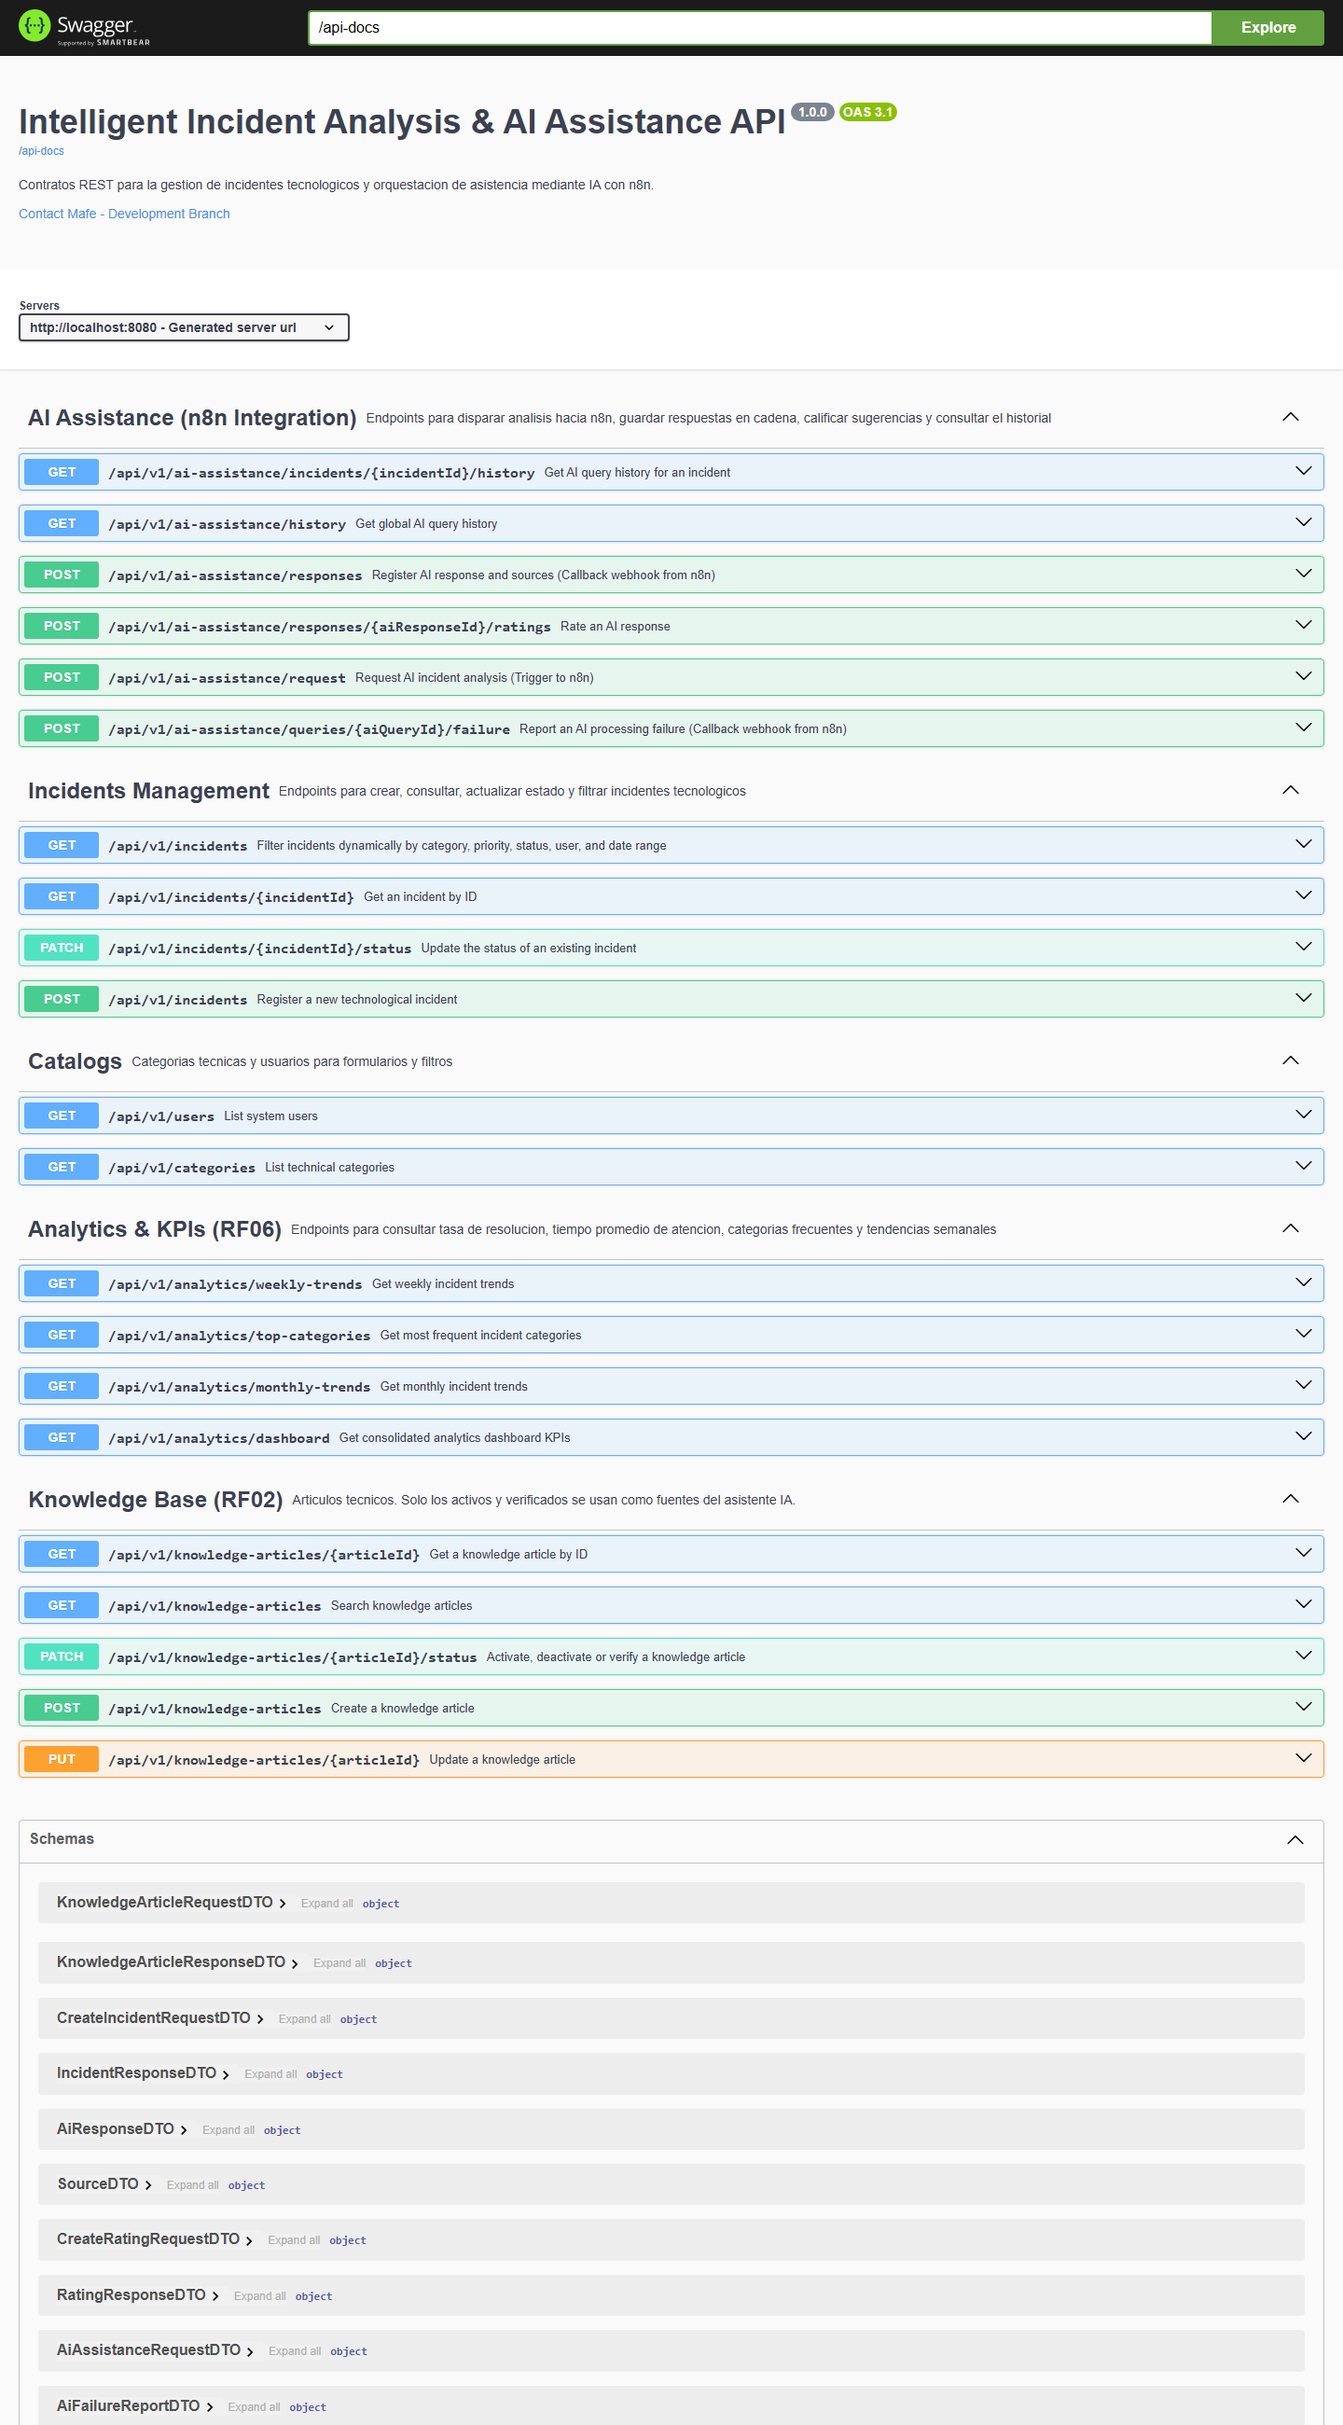
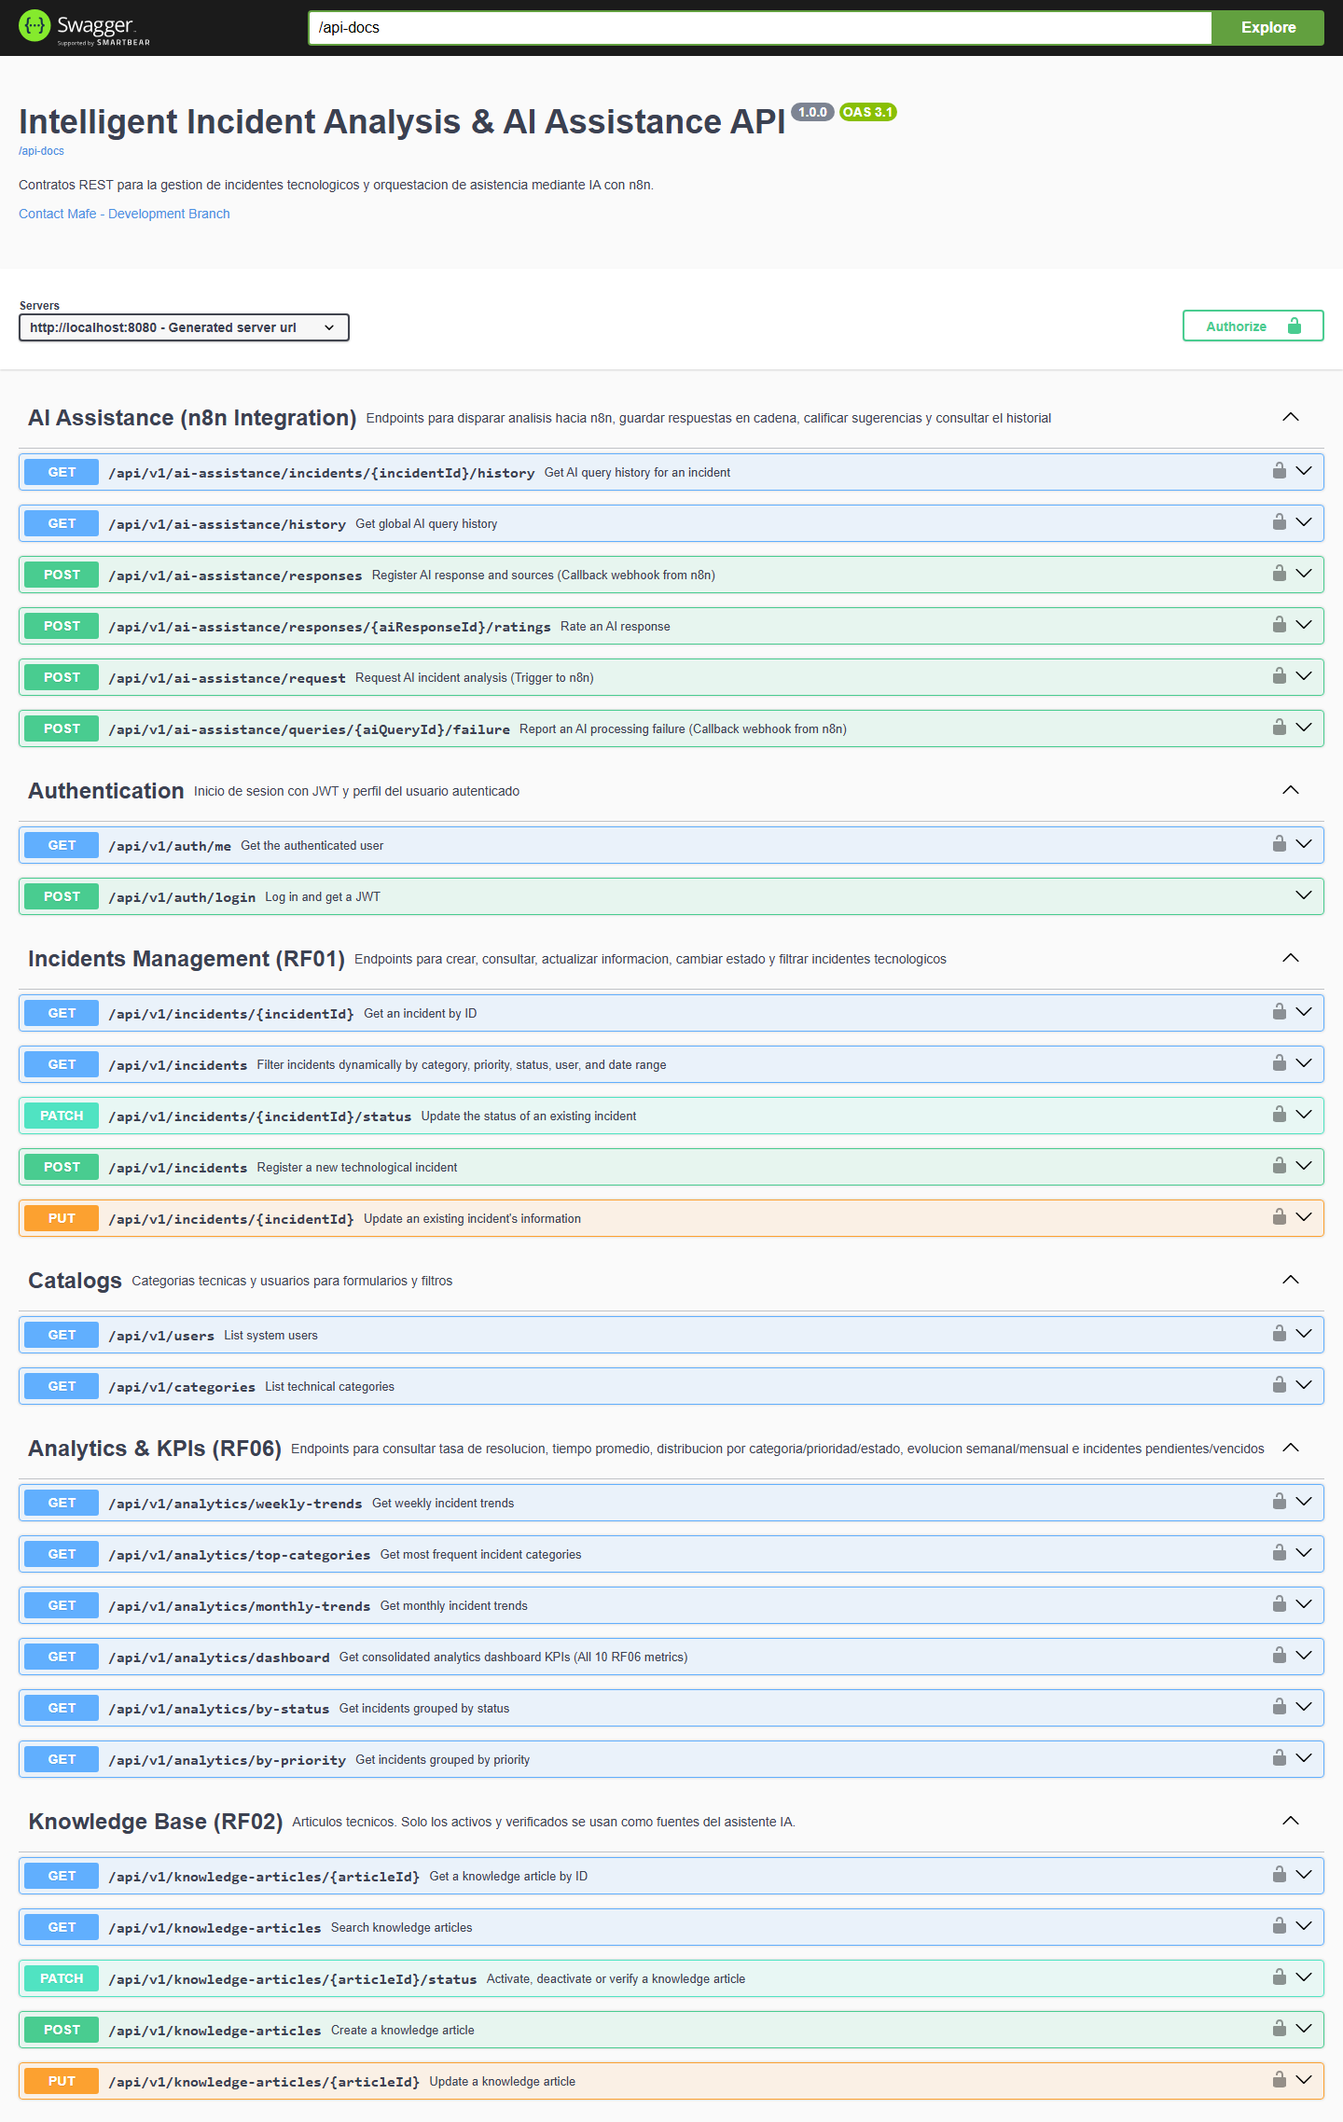
docs: add current screenshots for every role to the README
- retake every UI capture from the running app: login, each admin
  module, the technician and user interfaces, mobile and Swagger
- replace the outdated captures that predate login and roles
- README: dashboard preview at the top and a new "Capturas de pantalla"
  section grouped by role and device; later sections renumbered
- point the presentation and the evidence index to the new files

diff --git a/docs/presentacion/index.html b/docs/presentacion/index.html
@@ -125,14 +125,14 @@
   <section class="slide" aria-label="Dashboard">
     <span class="eyebrow">RF07 · Dashboard</span>
     <h2>Indicadores reales, filtros y comparación temporal</h2>
-    <img class="shot" src="../evidencias/frontend/01-dashboard.png" alt="Dashboard con indicadores, comparación con el periodo anterior y gráficos">
+    <img class="shot" src="../evidencias/frontend/02-admin-dashboard.png" alt="Dashboard con indicadores, comparación con el periodo anterior y gráficos">
   </section>
 
   <section class="slide" aria-label="Asistente">
     <span class="eyebrow">RF05 · Asistente IA</span>
     <h2>Respuestas estructuradas y respaldadas por fuentes</h2>
     <div class="grid g2">
-      <img class="shot" src="../evidencias/frontend/04-asistente.png" alt="Asistente IA con diagnóstico, solución, pasos y fuentes con similitud">
+      <img class="shot" src="../evidencias/frontend/08-admin-asistente.png" alt="Asistente IA con diagnóstico, solución, pasos y fuentes con similitud">
       <div class="card"><ul>
         <li><strong>Diagnóstico, solución sugerida y pasos</strong> en secciones separadas.</li>
         <li><strong>Fuentes desplegables</strong> con el valor real de similitud.</li>
@@ -146,7 +146,7 @@
   <section class="slide" aria-label="Base de conocimiento">
     <span class="eyebrow">RF02 · Base de conocimiento</span>
     <h2>Solo el contenido verificado llega a la IA</h2>
-    <img class="shot" src="../evidencias/frontend/03-conocimiento.png" alt="Base de conocimiento en tarjetas con estados activo, pendiente e inactivo">
+    <img class="shot" src="../evidencias/frontend/06-admin-conocimiento.png" alt="Base de conocimiento en tarjetas con estados activo, pendiente e inactivo">
   </section>
 
   <section class="slide" aria-label="Resultados del análisis">

diff --git a/README.md b/README.md
@@ -2,19 +2,22 @@
 
 Plataforma para registrar incidentes de soporte, administrar una base de conocimiento técnica, analizar indicadores con SQL y obtener orientación de un asistente de IA que responde **solo** con artículos verificados (RAG). Tiene tres roles (administrador, técnico y usuario), cada uno con su propia interfaz, y sesiones con JWT.
 
+![Dashboard del administrador: indicadores, filtros y gráficos calculados con SQL](docs/evidencias/frontend/02-admin-dashboard.png)
+
 **Contenido**
 
 1. [Arranque rápido](#1-arranque-rápido)
 2. [Cuentas, roles y permisos](#2-cuentas-roles-y-permisos)
-3. [Arquitectura](#3-arquitectura)
-4. [n8n: configuración automática](#4-n8n-configuración-automática)
-5. [Variables de entorno](#5-variables-de-entorno)
-6. [Pruebas](#6-pruebas)
-7. [Desarrollo sin Docker](#7-desarrollo-sin-docker)
-8. [Comandos del día a día](#8-comandos-del-día-a-día)
-9. [Despliegue en un servidor Ubuntu](#9-despliegue-en-un-servidor-ubuntu)
-10. [Solución de problemas](#10-solución-de-problemas)
-11. [Equipo, ramas y documentación](#11-equipo-ramas-y-documentación)
+3. [Capturas de pantalla](#3-capturas-de-pantalla)
+4. [Arquitectura](#4-arquitectura)
+5. [n8n: configuración automática](#5-n8n-configuración-automática)
+6. [Variables de entorno](#6-variables-de-entorno)
+7. [Pruebas](#7-pruebas)
+8. [Desarrollo sin Docker](#8-desarrollo-sin-docker)
+9. [Comandos del día a día](#9-comandos-del-día-a-día)
+10. [Despliegue en un servidor Ubuntu](#10-despliegue-en-un-servidor-ubuntu)
+11. [Solución de problemas](#11-solución-de-problemas)
+12. [Equipo, ramas y documentación](#12-equipo-ramas-y-documentación)
 
 ---
 
@@ -22,7 +25,7 @@ Plataforma para registrar incidentes de soporte, administrar una base de conocim
 
 Todo corre en Docker: no hace falta instalar Java, Maven, Node, PostgreSQL ni n8n.
 
-**Requisitos:** Git y Docker con Compose v2. En Windows y macOS es **Docker Desktop** (debe estar abierto). En Ubuntu, sigue el [paso 9.1](#91-instalar-docker).
+**Requisitos:** Git y Docker con Compose v2. En Windows y macOS es **Docker Desktop** (debe estar abierto). En Ubuntu, sigue el [paso 10.1](#101-instalar-docker).
 
 ### 1.1 Descargar el proyecto
 
@@ -76,7 +79,7 @@ docker compose ps
 
 La primera vez tarda unos minutos, porque descarga las imágenes y compila el backend. Al terminar, `backend`, `postgres`, `qdrant`, `n8n` y `frontend` deben aparecer como **healthy**. `certs` aparece como *Exited (0)* porque solo crea el certificado y termina.
 
-n8n **se configura solo** al arrancar: crea sus credenciales, importa el flujo y lo activa ([detalle](#4-n8n-configuración-automática)). Para comprobarlo:
+n8n **se configura solo** al arrancar: crea sus credenciales, importa el flujo y lo activa ([detalle](#5-n8n-configuración-automática)). Para comprobarlo:
 
 ```bash
 docker compose logs n8n | grep -E "n8n-setup|Started"
@@ -159,7 +162,75 @@ Seguridad:
 
 ---
 
-## 3. Arquitectura
+## 3. Capturas de pantalla
+
+Tomadas de la aplicación en funcionamiento, con los datos iniciales y respuestas reales del asistente. Están en [docs/evidencias/frontend/](docs/evidencias/frontend/).
+
+### Inicio de sesión
+
+Cada cuenta de demostración rellena el correo con un clic. Después del login, cada rol llega a su propia sección de inicio.
+
+![Inicio de sesión con las tres cuentas de demostración, una por rol](docs/evidencias/frontend/01-login.png)
+
+### Administrador
+
+**Dashboard** (la imagen del inicio de este README). Indicadores, evolución semanal y mensual, tiempos de resolución y distribución por categoría y estado, con filtros por fecha, categoría y prioridad.
+
+| **Incidentes:** todos los incidentes, con filtros, búsqueda y orden | **Detalle:** datos del incidente, cambio de estado y accesos a la IA |
+|:-:|:-:|
+| ![Lista de incidentes](docs/evidencias/frontend/03-admin-incidentes.png) | ![Detalle de un incidente](docs/evidencias/frontend/04-admin-incidente-detalle.png) |
+
+| **Nuevo incidente:** puede registrarlo a nombre de cualquier usuario | **Base de conocimiento:** artículos activos, pendientes e inactivos |
+|:-:|:-:|
+| ![Formulario de nuevo incidente](docs/evidencias/frontend/05-admin-nuevo-incidente.png) | ![Base de conocimiento](docs/evidencias/frontend/06-admin-conocimiento.png) |
+
+| **Artículo:** solo el administrador lo verifica (o le quita la verificación) y lo desactiva | **Historial:** todas las consultas a la IA, su estado y su calificación |
+|:-:|:-:|
+| ![Detalle de un artículo con verificar y desactivar](docs/evidencias/frontend/07-admin-articulo.png) | ![Historial de consultas](docs/evidencias/frontend/09-admin-historial.png) |
+
+| **Analítica:** indicadores y gráficos calculados con SQL | **Configuración:** conexión con la API (solo administrador) |
+|:-:|:-:|
+| ![Analítica](docs/evidencias/frontend/10-admin-analitica.png) | ![Configuración](docs/evidencias/frontend/11-admin-configuracion.png) |
+
+**Asistente IA (RAG).** La respuesta trae diagnóstico, solución, pasos, confianza y los artículos usados como fuente, con su similitud.
+
+![Asistente IA con una respuesta real](docs/evidencias/frontend/08-admin-asistente.png)
+
+### Técnico de soporte
+
+Ve el dashboard, los incidentes, la base de conocimiento, el asistente y el historial. No ve *Configuración* y no puede verificar artículos: solo crearlos y editarlos.
+
+| **Dashboard del técnico:** sin la sección Configuración en el menú | **Artículo:** puede editarlo, pero la verificación queda para el administrador |
+|:-:|:-:|
+| ![Dashboard del técnico](docs/evidencias/frontend/12-tecnico-dashboard.png) | ![Artículo visto por el técnico, sin botón de verificar](docs/evidencias/frontend/13-tecnico-articulo.png) |
+
+### Usuario
+
+Solo ve *Mis incidentes*, *Conocimiento* (lectura de artículos publicados), *Asistente IA* sobre sus incidentes y *Mis consultas*.
+
+| **Mis incidentes:** solo los que reportó | **Reportar incidente:** siempre queda a su nombre |
+|:-:|:-:|
+| ![Mis incidentes](docs/evidencias/frontend/14-usuario-mis-incidentes.png) | ![Formulario para reportar un incidente](docs/evidencias/frontend/15-usuario-reportar.png) |
+
+| **Mis consultas:** las consultas a la IA sobre sus incidentes | **Conocimiento:** solo artículos activos y verificados, sin edición |
+|:-:|:-:|
+| ![Mis consultas](docs/evidencias/frontend/16-usuario-mis-consultas.png) | ![Base de conocimiento en modo lectura](docs/evidencias/frontend/17-usuario-conocimiento.png) |
+
+### Móvil
+
+| Dashboard | Menú lateral | Inicio de sesión |
+|:-:|:-:|:-:|
+| <img src="docs/evidencias/frontend/18-movil-dashboard.png" alt="Dashboard en móvil" width="240"> | <img src="docs/evidencias/frontend/19-movil-menu.png" alt="Menú lateral en móvil" width="240"> | <img src="docs/evidencias/frontend/20-movil-login.png" alt="Inicio de sesión en móvil" width="240"> |
+
+### API (Swagger)
+
+Los 26 endpoints documentados por módulo. Con **Authorize** se pega el JWT de `POST /api/v1/auth/login`.
+
+![Swagger UI con los endpoints de la API](docs/evidencias/swagger-ui.png)
+
+---
+
+## 4. Arquitectura
 
 ```
 ┌────────────┐  REST   ┌──────────────────┐  JDBC  ┌──────────────┐
@@ -252,7 +323,7 @@ Por seguridad, los puertos se publican **solo en `127.0.0.1`**. Si alguno está 
 
 ---
 
-## 4. n8n: configuración automática
+## 5. n8n: configuración automática
 
 Cada vez que arranca el contenedor `n8n`, antes de `n8n start`, se ejecuta [n8n/setup.sh](n8n/setup.sh). El script:
 
@@ -284,7 +355,7 @@ Los dos exigen el encabezado `X-N8N-Token`. Sin él, o con un valor incorrecto, 
 
 ---
 
-## 5. Variables de entorno
+## 6. Variables de entorno
 
 Se definen en el `.env`. Las marcadas con **\*** son obligatorias para levantar con Docker; el resto tiene un valor por defecto.
 
@@ -305,13 +376,13 @@ Se definen en el `.env`. Las marcadas con **\*** son obligatorias para levantar 
 | `TZ` | postgres, n8n | Zona horaria. Por defecto `America/Bogota` |
 | `*_PORT` | Docker | Puertos del equipo, si los predeterminados están ocupados |
 
-Fuera de Docker (sección 7), el backend también lee `DB_URL`, `DB_DRIVER`, `DB_USERNAME`, `DB_PASSWORD`, `N8N_WEBHOOK_URL` y `N8N_INDEX_WEBHOOK_URL`.
+Fuera de Docker (sección 8), el backend también lee `DB_URL`, `DB_DRIVER`, `DB_USERNAME`, `DB_PASSWORD`, `N8N_WEBHOOK_URL` y `N8N_INDEX_WEBHOOK_URL`.
 
 Las claves nunca se escriben en el código ni en el repositorio: van en el `.env`.
 
 ---
 
-## 6. Pruebas
+## 7. Pruebas
 
 ### Automáticas (sin instalar Java ni Node)
 
@@ -375,7 +446,7 @@ Con los datos iniciales, `totalIncidents` es 150.
 
 ---
 
-## 7. Desarrollo sin Docker
+## 8. Desarrollo sin Docker
 
 Para trabajar en el backend o el frontend con recarga rápida. Requiere Java 21, Maven 3.9 y Python 3 (u otro servidor estático).
 
@@ -394,7 +465,7 @@ python -m http.server 5500
 
 ---
 
-## 8. Comandos del día a día
+## 9. Comandos del día a día
 
 | Acción | Comando |
 |---|---|
@@ -411,11 +482,11 @@ python -m http.server 5500
 
 ---
 
-## 9. Despliegue en un servidor Ubuntu
+## 10. Despliegue en un servidor Ubuntu
 
 Probado en Ubuntu 22.04 y 24.04.
 
-### 9.1 Instalar Docker
+### 10.1 Instalar Docker
 
 ```bash
 sudo apt update
@@ -436,7 +507,7 @@ sudo systemctl enable docker           # que Docker arranque con el sistema
 
 Para comprobarlo, `docker --version` y `docker compose version` deben responder sin error. Después, sigue el [arranque rápido](#1-arranque-rápido) (pasos 1.1 a 1.4).
 
-### 9.2 HTTPS
+### 10.2 HTTPS
 
 La página también se sirve en **https://localhost:5443**. Por HTTPS, nginx reenvía `/api`, `/api-docs` y `/swagger-ui` al backend: la página y la API comparten origen, así que no hay contenido mixto ni hace falta CORS.
 
@@ -454,7 +525,7 @@ La página también se sirve en **https://localhost:5443**. Por HTTPS, nginx ree
   Para publicarlo en internet, en `docker-compose.yml` cambia el puerto HTTPS del frontend de `127.0.0.1:${FRONTEND_HTTPS_PORT:-5443}:443` a `443:443`, y abre el puerto con `sudo ufw allow 443`. El resto de servicios debe seguir en `127.0.0.1`.
 - **Encabezados de seguridad:** HSTS (solo por HTTPS), `X-Content-Type-Options: nosniff`, `X-Frame-Options: DENY`, `Referrer-Policy` y `Permissions-Policy`. nginx no expone su versión.
 
-### 9.3 Usarlo desde otro computador
+### 10.3 Usarlo desde otro computador
 
 Los servicios solo escuchan en `127.0.0.1` del servidor. Para usarlos desde otro equipo, abre un **túnel SSH**. El servidor necesita `openssh-server`:
 
@@ -467,7 +538,7 @@ Mientras la sesión esté abierta, en ese computador funcionan http://localhost:
 
 ---
 
-## 10. Solución de problemas
+## 11. Solución de problemas
 
 Lo primero es revisar `docker compose ps` y los logs del servicio que falla (`docker compose logs --tail 50 <servicio>`).
 
@@ -481,7 +552,7 @@ Lo primero es revisar `docker compose ps` y los logs del servicio que falla (`do
 | El log de n8n muestra `\r` o `not found` | Copia antigua del repositorio con fin de línea de Windows. Ejecuta `git pull` y `docker compose up -d` |
 | El webhook de n8n responde `403 Authorization data is wrong!` | El token no coincide. Revisa `N8N_WEBHOOK_AUTH_VALUE` y ejecuta `docker compose up -d backend n8n` |
 | El webhook de n8n responde `404` | El flujo no está activo. Mira `docker compose logs n8n` y ejecuta `docker compose restart n8n` |
-| Cambios en el editor de n8n desaparecen al reiniciar | Es lo esperado: el flujo se reimporta del repositorio ([sección 4](#4-n8n-configuración-automática)). Usa `N8N_AUTO_SETUP=false` para editar en la interfaz |
+| Cambios en el editor de n8n desaparecen al reiniciar | Es lo esperado: el flujo se reimporta del repositorio ([sección 5](#5-n8n-configuración-automática)). Usa `N8N_AUTO_SETUP=false` para editar en la interfaz |
 | La página dice "API sin conexión" | El backend no está *healthy*, o la página se abrió como archivo (`file://`). En *Configuración*, la URL debe ser `http://localhost:8080` |
 | El login dice *Correo o contraseña incorrectos* | La contraseña es la de `DEMO_PASSWORD` (`Soporte2026*`). Si cambiaste `DEMO_PASSWORD` después del primer arranque, sigue valiendo la anterior: solo se asigna a usuarios sin contraseña |
 | La sesión se cierra cada vez que se reinicia el backend | `JWT_SECRET` está vacío en el `.env` (paso 1.2) |
@@ -491,7 +562,7 @@ Lo primero es revisar `docker compose ps` y los logs del servicio que falla (`do
 
 ---
 
-## 11. Equipo, ramas y documentación
+## 12. Equipo, ramas y documentación
 
 | Rama | Responsable | Alcance |
 |---|---|---|

diff --git a/docs/evidencias/README.md b/docs/evidencias/README.md
@@ -2,10 +2,10 @@
 
 | Archivo | Contenido |
 |---|---|
-| [`swagger-ui.png`](swagger-ui.png) | Swagger UI con los 21 endpoints documentados |
+| [`swagger-ui.png`](swagger-ui.png) | Swagger UI con los 26 endpoints documentados, agrupados por módulo, y el botón Authorize para el JWT |
 | [`openapi.json`](openapi.json) | Especificación OpenAPI 3.1 exportada de `/api-docs` |
 | [`postman_collection.json`](postman_collection.json) | Colección Postman (25 peticiones con pruebas del código HTTP esperado). Importar en Postman y ejecutar en orden |
 | [`ejecucion-api.md`](ejecucion-api.md) | Resultado de ejecutar esas 25 peticiones contra el backend: 25/25 |
-| [`frontend/`](frontend) | Capturas de cada módulo del frontend con datos reales (escritorio y móvil) |
+| [`frontend/`](frontend) | Capturas de cada módulo y de cada rol (administrador, técnico y usuario) con datos reales, en escritorio y móvil. Se muestran en el README principal |
 
 Para regenerar la especificación: con el backend en marcha, `curl http://localhost:8080/api-docs`.
